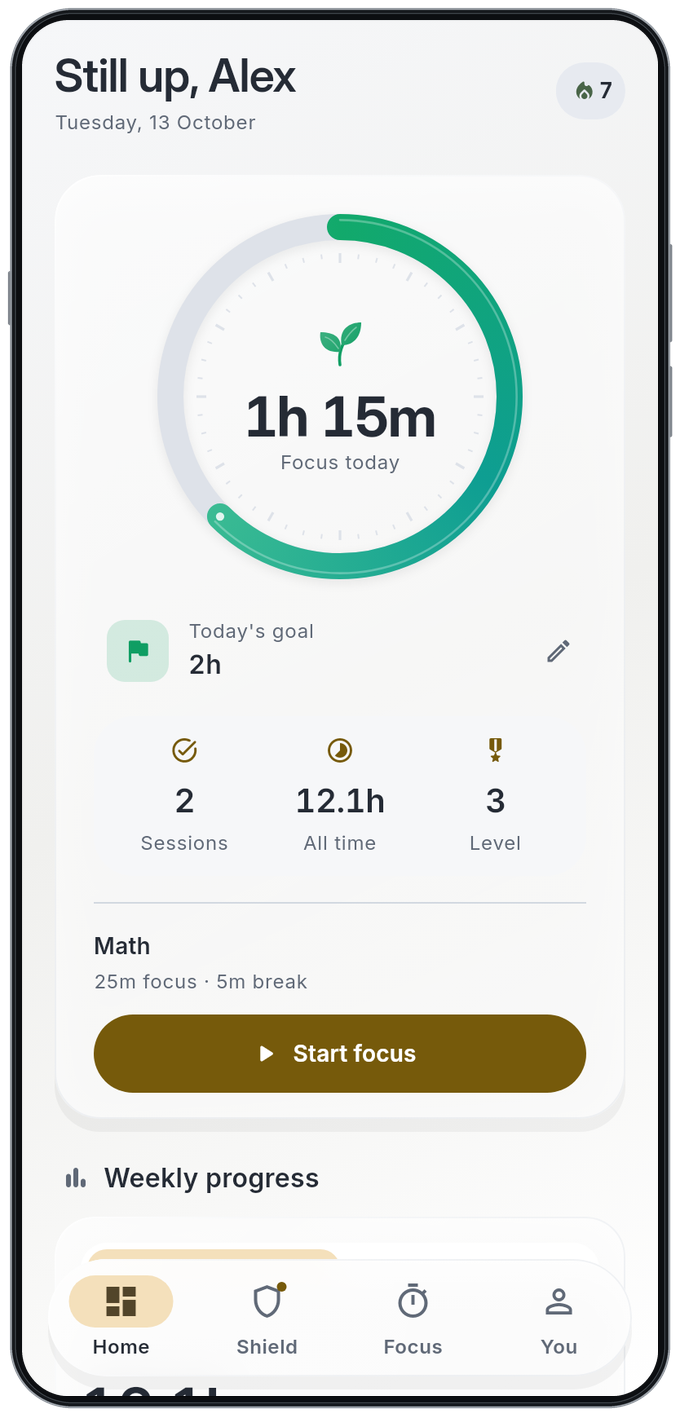
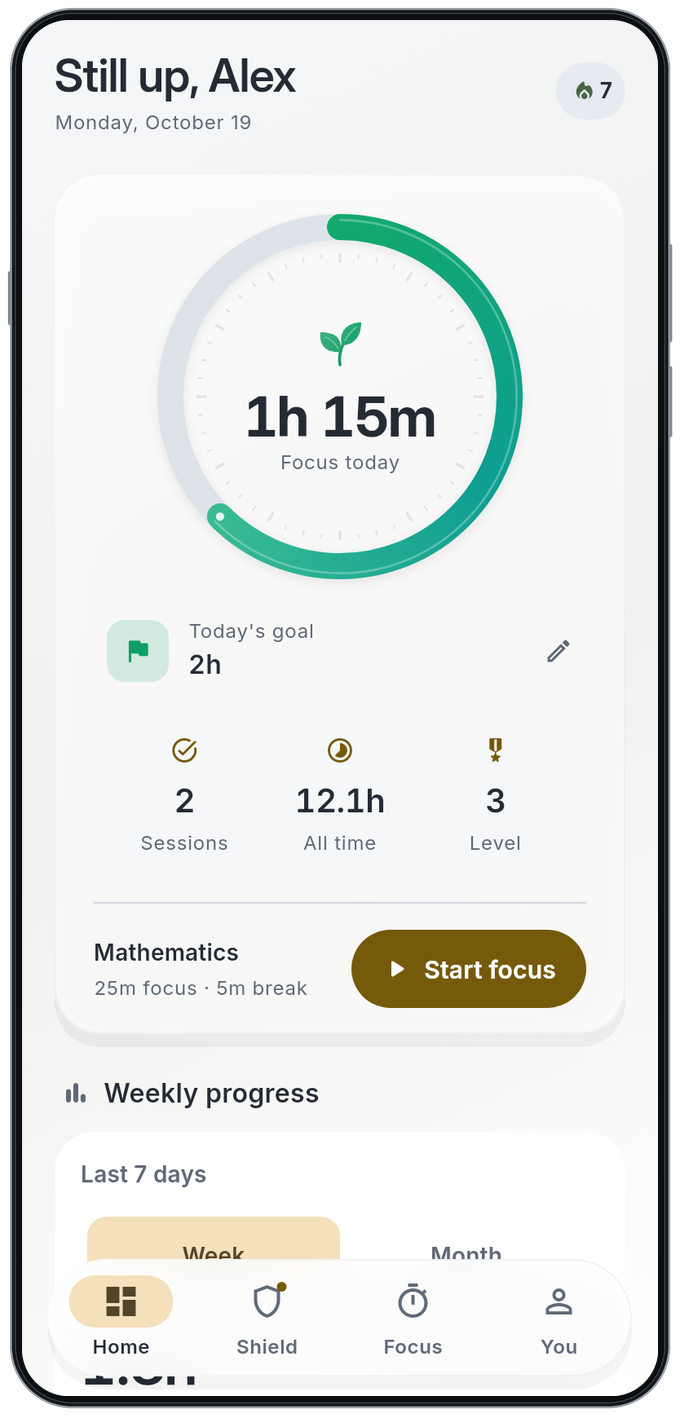
docs(screenshots): refresh phone galleries from current app screens

diff --git a/tool/capture_readme_test.dart b/tool/capture_readme_test.dart
@@ -15,12 +15,15 @@ import 'package:shared_preferences/shared_preferences.dart';
 import 'package:focusforge/app/app.dart';
 import 'package:focusforge/app/router.dart';
 import 'package:focusforge/core/models/study.dart';
+import 'package:focusforge/core/models/focus_goal.dart';
 import 'package:focusforge/core/models/user.dart';
 import 'package:focusforge/core/providers/app_providers.dart';
+import 'package:focusforge/core/providers/goal_planner_providers.dart';
 import 'package:focusforge/core/providers/shield_providers.dart';
 import 'package:focusforge/core/providers/study_providers.dart';
 import 'package:focusforge/core/providers/usage_providers.dart';
 import 'package:focusforge/core/services/local_store.dart';
+import 'package:focusforge/core/services/auth_service.dart';
 import 'package:focusforge/core/services/shield_service.dart';
 import 'package:focusforge/core/models/shield.dart';
 import 'package:focusforge/core/services/app_catalog.dart';
@@ -52,10 +55,20 @@ void main() {
     final store = await LocalStore.open();
     await store.setBool(StoreKeys.coachSeen, true);
     final engine = RecordingShieldService();
+    final auth = LocalAuthService(store);
+    const demoProfile = UserProfile(
+      uid: 'alex',
+      isAnonymous: false,
+      displayName: 'Alex Morgan',
+      onboardingComplete: true,
+    );
+    await auth.updateProfile(demoProfile);
+    addTearDown(auth.dispose);
     final now = DateTime.now();
     final container = ProviderContainer(
       overrides: [
         localStoreProvider.overrideWithValue(store),
+        authServiceProvider.overrideWithValue(auth),
         shieldServiceProvider.overrideWithValue(engine),
         installedAppsProvider.overrideWith(
           (ref) async => const [
@@ -90,21 +103,33 @@ void main() {
     );
     addTearDown(container.dispose);
     addTearDown(engine.dispose);
-    container
-        .read(userProvider.notifier)
-        .hydrate(
-          const UserProfile(
-            uid: 'alex',
-            isAnonymous: false,
-            displayName: 'Alex Morgan',
-            onboardingComplete: true,
-          ),
-        );
+    container.read(userProvider.notifier).hydrate(demoProfile);
+    container.read(subjectsProvider.notifier).hydrate([
+      const Subject(
+        id: 'math',
+        name: 'Mathematics',
+        icon: Icons.calculate_outlined,
+        color: Colors.blue,
+      ).toJson(),
+      const Subject(
+        id: 'physics',
+        name: 'Physics',
+        icon: Icons.science_outlined,
+        color: Colors.teal,
+      ).toJson(),
+      const Subject(
+        id: 'literature',
+        name: 'Literature',
+        icon: Icons.auto_stories_outlined,
+        color: Colors.deepPurple,
+      ).toJson(),
+    ]);
     final sessions = [
       for (var day = 6; day >= 0; day--)
         for (var block = 0; block < (day % 3) + 2; block++)
           FocusSession(
             id: 'review-$day-$block',
+            ownerUid: 'alex',
             subjectId: block.isEven ? 'math' : 'physics',
             startedAt: DateTime(now.year, now.month, now.day - day, 9 + block),
             minutes: block.isEven ? 25 : 50,
@@ -127,6 +152,17 @@ void main() {
 
     container.read(timerProvider.notifier).setSubject('math');
     container.read(dailyGoalProvider.notifier).hydrate(120, null);
+    await container
+        .read(focusGoalPlannerProvider.notifier)
+        .save(
+          FocusGoalPlan(
+            scope: FocusGoalScope.day,
+            date: now,
+            totalMinutes: 120,
+            subjectMinutes: const {},
+            repeatThisWeek: true,
+          ),
+        );
     container.read(whitelistProvider.notifier).hydrate([
       {
         'id': 'instagram',

diff --git a/docs/screenshots/README.md b/docs/screenshots/README.md
@@ -2,8 +2,7 @@
 
 The Day and Dark galleries show the current FocusForge interface: Home, Shield,
 Focus and You. They were captured from the actual Flutter widgets at source
-commit `00a1cc820d0bf0523c18ecb50525c2752be4f513` on 13 October 2026. The app
-`lib/` tree was `4b0ed22ed7fddc9d2ef1e5f6c84be9f1ec96a485`.
+commit 20cbb1536e599f540e81914da1011aed98e40929 on 19 October 2026, with the updated capture fixture in this release. The captures explicitly seed the demo subject catalog and session ownership, and use a local fixture account so profile controls represent a signed-in demo. No production account or user data is read.
 
 These are reproducible widget-test renders with fictional local fixtures,
 composed inside neutral illustrative phone borders. They are not physical-device
@@ -62,5 +61,5 @@ image bridge did not provide direct visual inspection, so no subjective visual
 approval or native-device verification is claimed.
 
 The older `04-groups.webp` remains an unused local-fixture preview from a prior
-capture. It is not part of the refreshed four-screen README gallery. Separate
+capture. It is not part of the refreshed four-screen README gallery. The website uses matching updated dark Home, Shield and Focus images. Separate
 Play Store artwork and the design-review images are unchanged.
